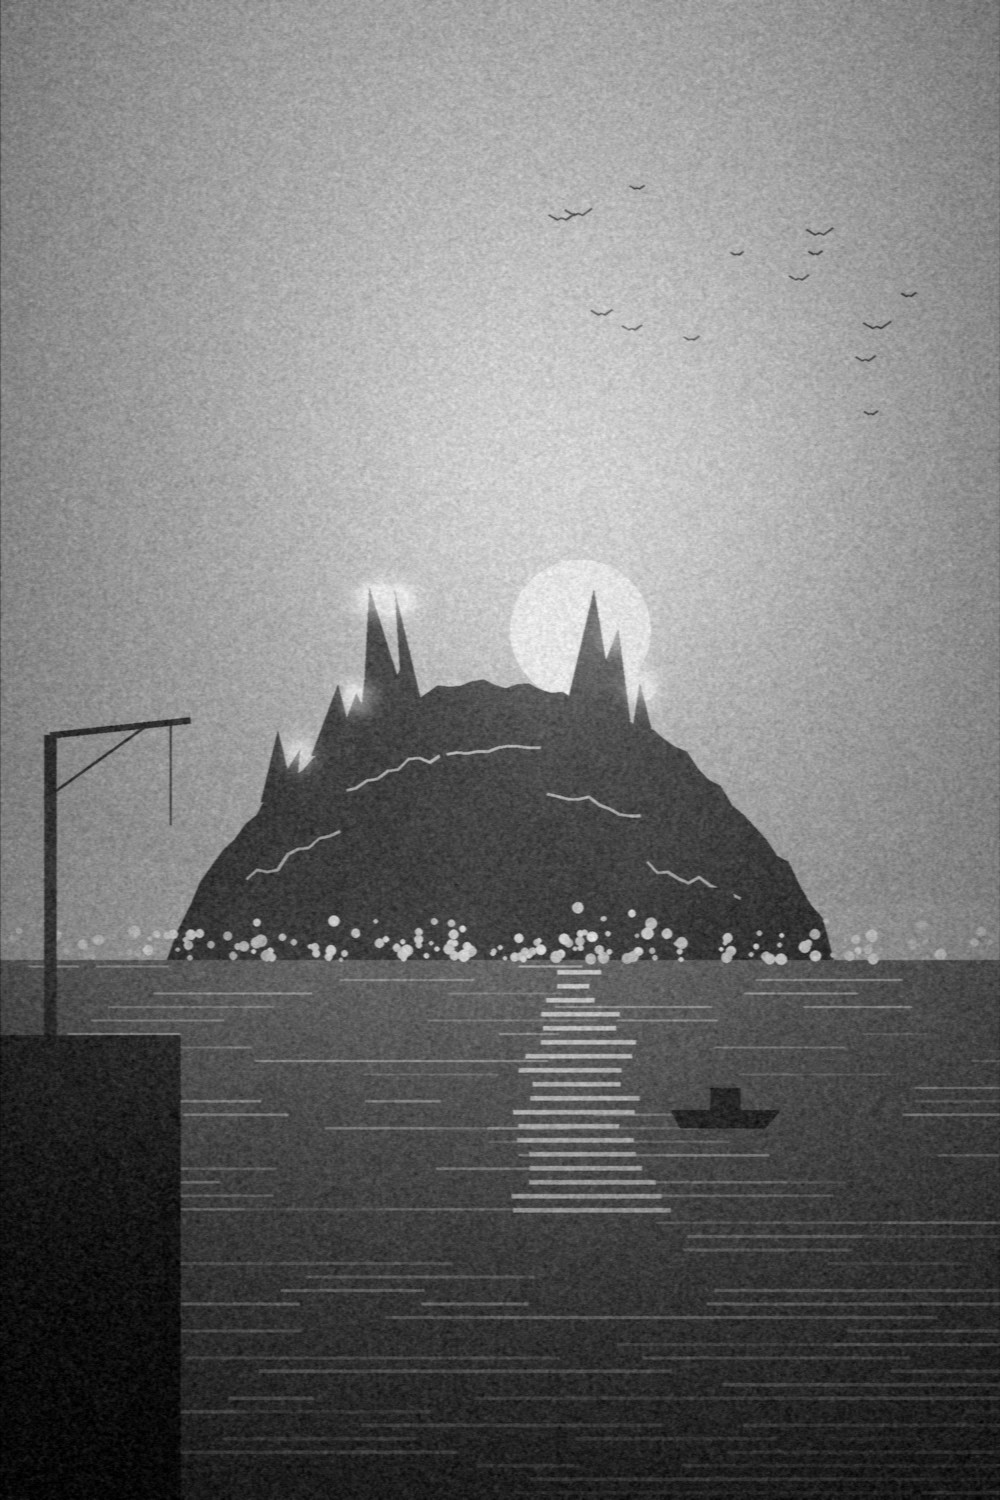
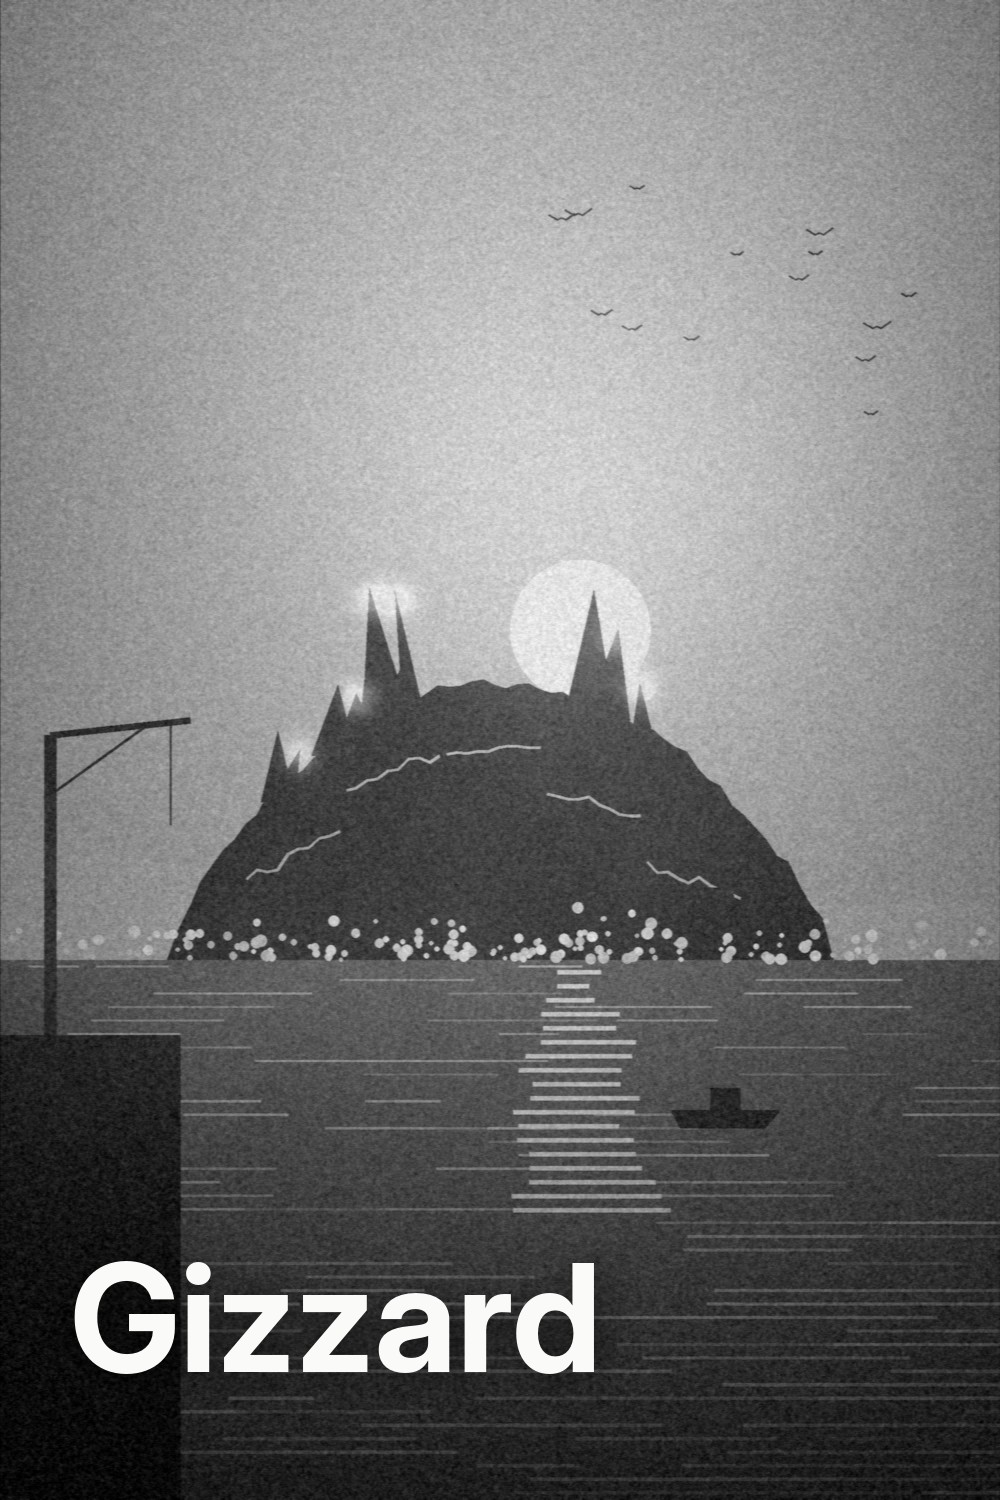
Titans cover: add Gizzard title
Claude-Session: https://claude.ai/code/session_01QCZ3THmafUUiZD8XJvcPvh

Changed region(s): [[0.062, 0.828, 0.62, 0.92]]

diff --git a/tools/make_titan.py b/tools/make_titan.py
@@ -1,4 +1,4 @@
-"""Titans collection art (poster + wide, greyscale, no title): an original crystal-spined shell surfacing in a harbor.
+"""Titans collection art (poster + wide, greyscale): an original crystal-spined shell surfacing in a harbor.
 Usage: python3 tools/make_titan.py   (writes into covers/collections/)"""
 import math, sys, os
 import numpy as np
@@ -88,5 +88,5 @@ def build(W, H, title, out):
 
 
 if __name__ == '__main__':
-    print(build(1000, 1500, None, 'covers/collections/titans-poster.jpg'))
+    print(build(1000, 1500, 'Gizzard', 'covers/collections/titans-poster.jpg'))
     print(build(1920, 1080, None, 'covers/collections/titans-wide.jpg'))
